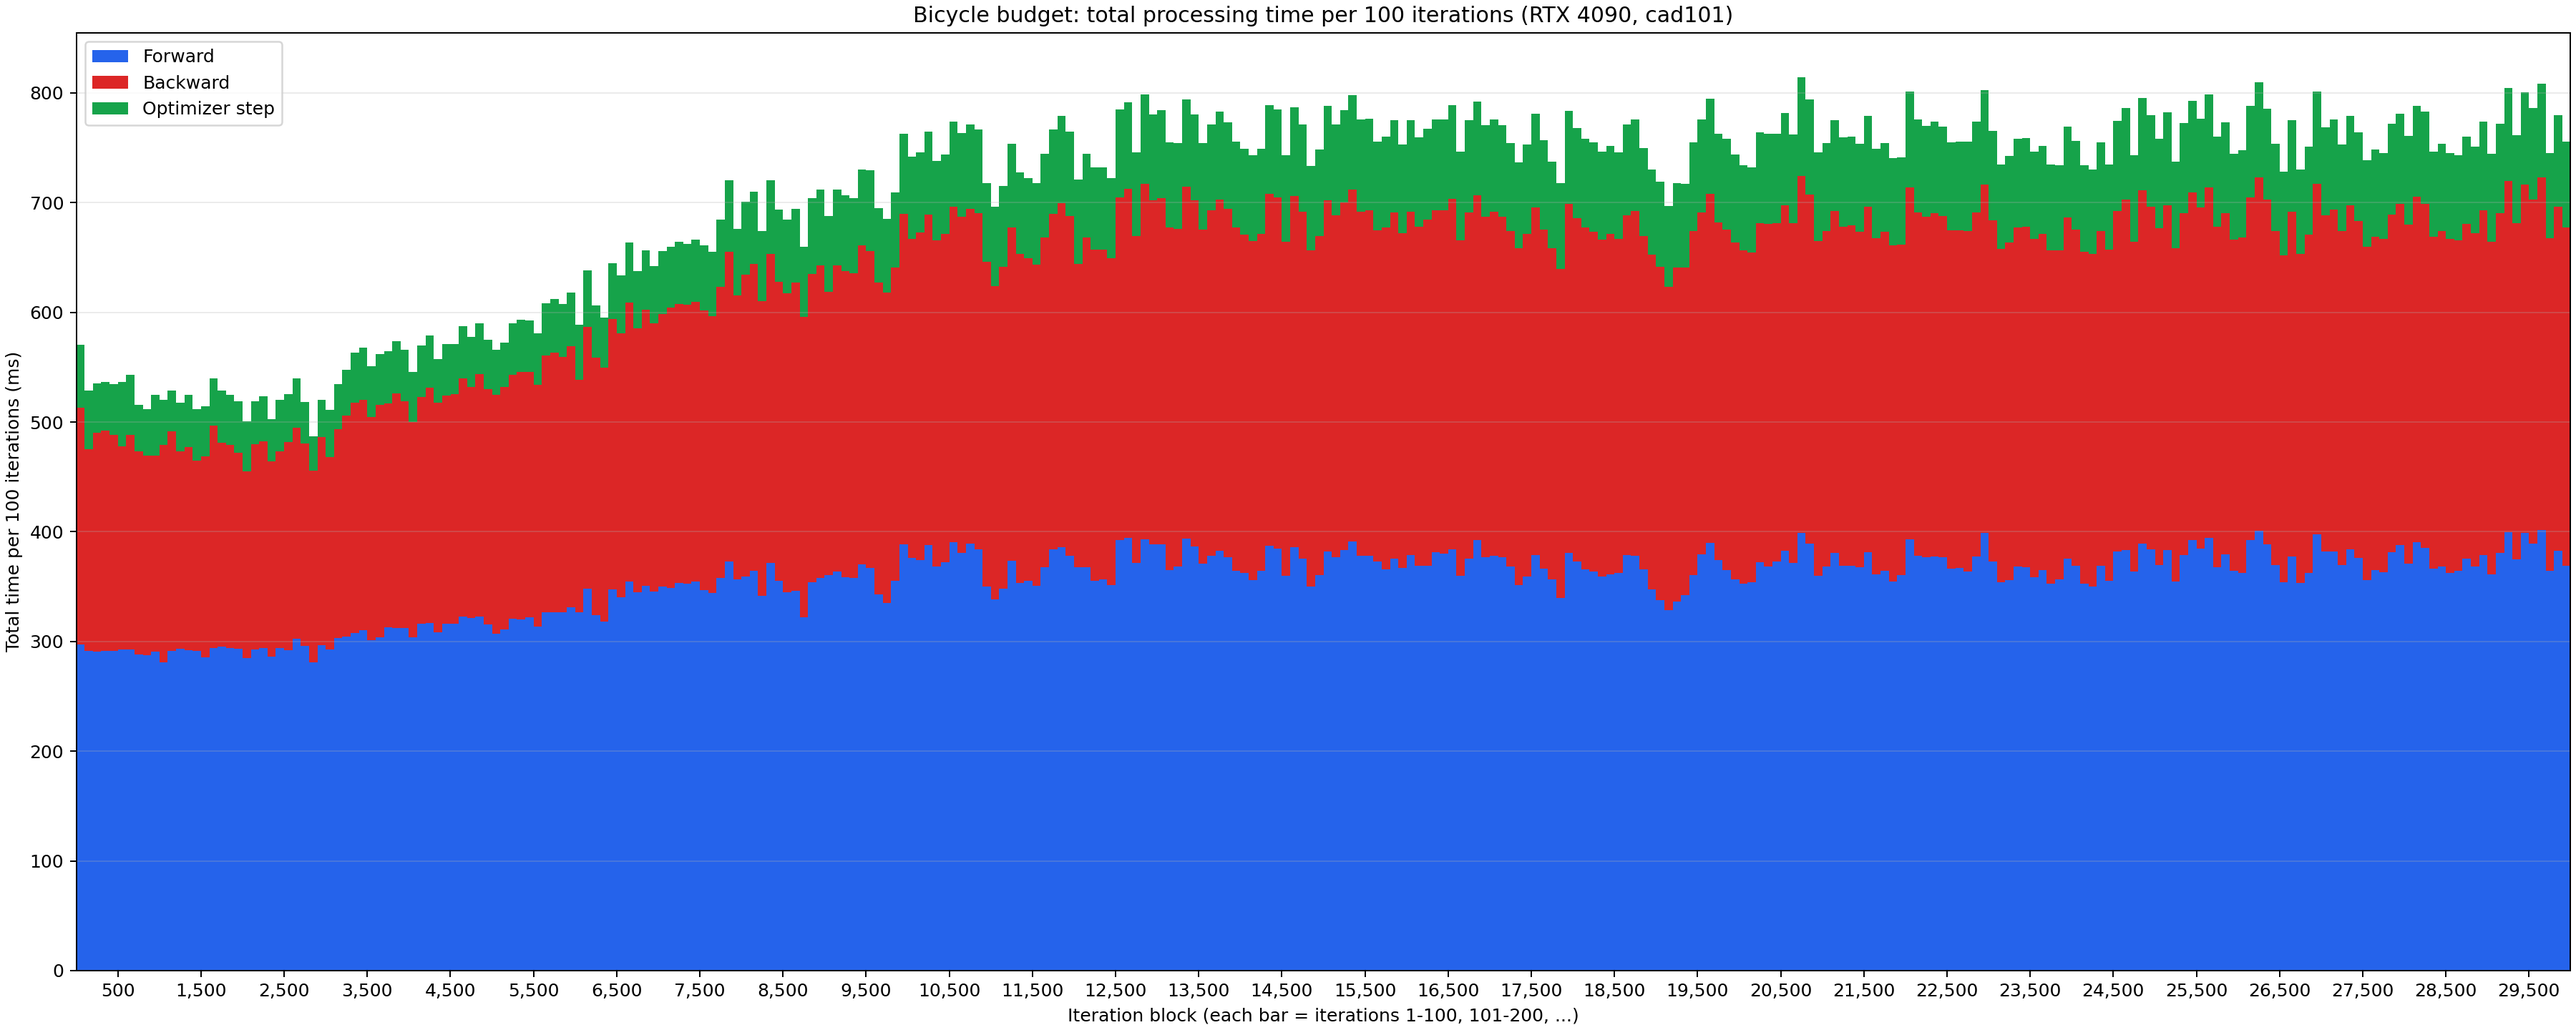
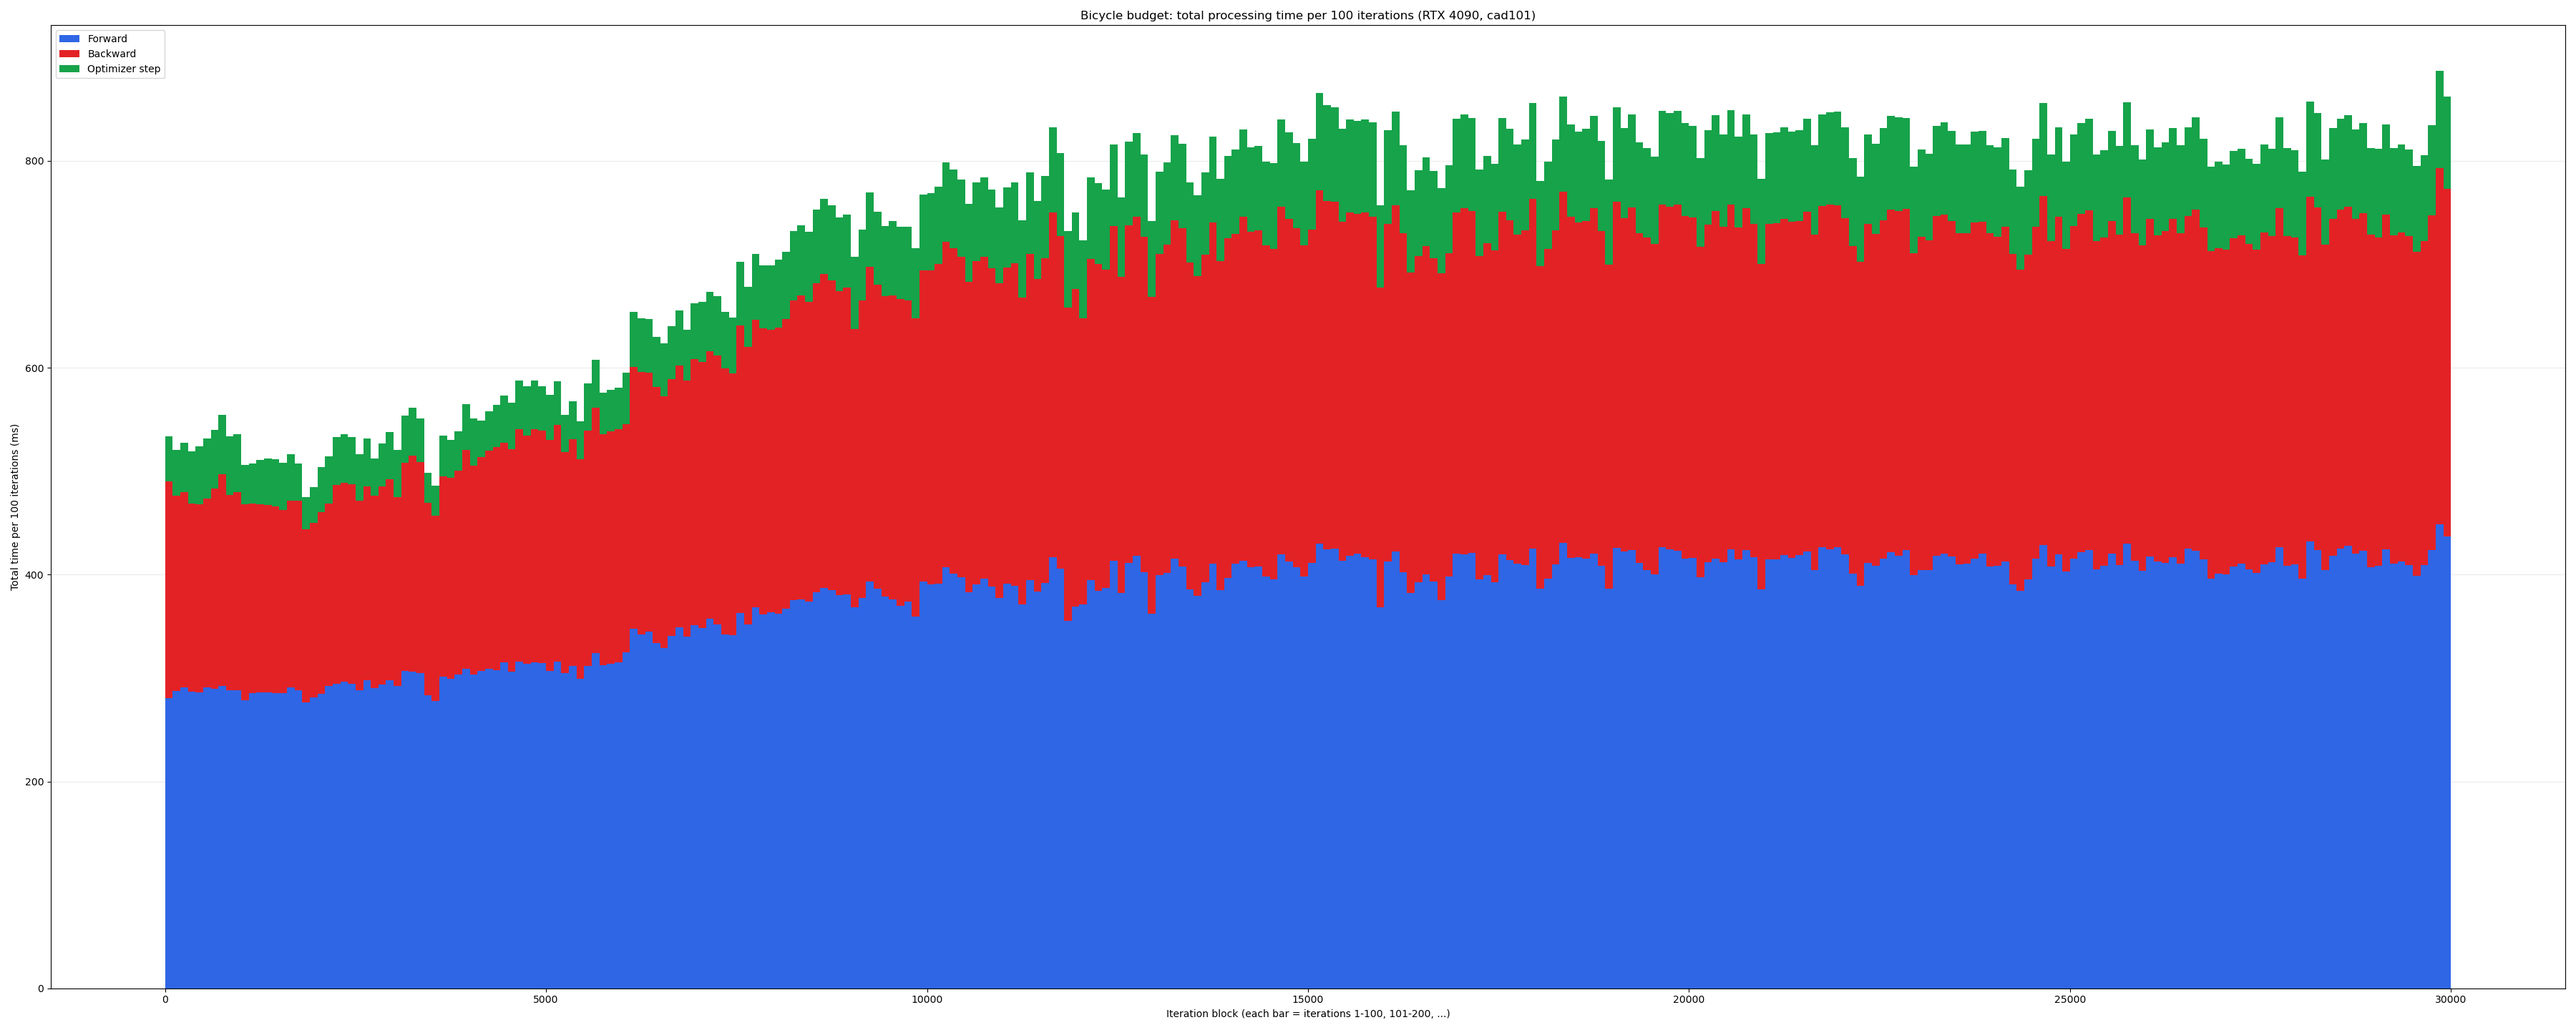
Add timing benchmark chart images

diff --git a/eval/plot_timing_100iter_stacked_bar.py b/eval/plot_timing_100iter_stacked_bar.py
@@ -1,0 +1,101 @@
+#!/usr/bin/env python3
+"""Create 100-iteration stacked timing bars for budget benchmark outputs."""
+
+from pathlib import Path
+
+import matplotlib.pyplot as plt
+import numpy as np
+
+
+HERE = Path(__file__).resolve().parent
+BLOCK_SIZE = 100
+
+CAD_MACHINE = {
+    "bicycle": "cad101",
+    "bonsai": "cad102",
+    "counter": "cad101",
+    "flowers": "cad102",
+    "garden": "cad101",
+    "kitchen": "cad102",
+    "room": "cad101",
+    "stump": "cad102",
+    "treehill": "cad101",
+}
+
+WONDER_MACHINE = {
+    "bicycle": "wonder44",
+    "bonsai": "wonder45",
+    "counter": "wonder44",
+    "flowers": "wonder45",
+    "garden": "wonder44",
+    "kitchen": "wonder45",
+    "room": "wonder44",
+    "stump": "wonder45",
+    "treehill": "wonder44",
+}
+
+
+def plot_benchmark(directory: Path) -> None:
+    forward = np.load(directory / "forward.npy")
+    backward = np.load(directory / "backward.npy")
+    step = np.load(directory / "step.npy")
+
+    if not (len(forward) == len(backward) == len(step)):
+        raise ValueError(f"timing arrays have different lengths in {directory}")
+    if len(forward) % BLOCK_SIZE:
+        raise ValueError(f"timing arrays are not a multiple of {BLOCK_SIZE}: {directory}")
+
+    def block_sums(values: np.ndarray) -> np.ndarray:
+        return values.reshape(-1, BLOCK_SIZE).sum(axis=1)
+
+    forward_blocks = block_sums(forward)
+    backward_blocks = block_sums(backward)
+    step_blocks = block_sums(step)
+    x = np.arange(len(forward_blocks)) * BLOCK_SIZE
+
+    is_jetson = directory.name.endswith("_budget_jetson")
+    scene = directory.name.removesuffix("_budget_jetson" if is_jetson else "_budget")
+    platform = "Jetson" if is_jetson else "RTX 4090"
+    machine = (WONDER_MACHINE if is_jetson else CAD_MACHINE)[scene]
+    title = f"{scene.capitalize()} budget: total processing time per 100 iterations ({platform}, {machine})"
+
+    fig, ax = plt.subplots(figsize=(36, 14.4), dpi=100)
+    ax.bar(x, forward_blocks, width=BLOCK_SIZE, align="edge", color="#2f66e5", label="Forward")
+    ax.bar(
+        x,
+        backward_blocks,
+        width=BLOCK_SIZE,
+        align="edge",
+        bottom=forward_blocks,
+        color="#e32226",
+        label="Backward",
+    )
+    ax.bar(
+        x,
+        step_blocks,
+        width=BLOCK_SIZE,
+        align="edge",
+        bottom=forward_blocks + backward_blocks,
+        color="#16a34a",
+        label="Optimizer step",
+    )
+    ax.set_xlabel("Iteration block (each bar = iterations 1-100, 101-200, ...)")
+    ax.set_ylabel("Total time per 100 iterations (ms)")
+    ax.set_title(title)
+    ax.grid(axis="y", alpha=0.25)
+    ax.set_axisbelow(True)
+    ax.legend(loc="upper left")
+    fig.tight_layout()
+    fig.savefig(directory / "timing_100iter_stacked_bar.png")
+    plt.close(fig)
+
+
+def main() -> None:
+    for directory in sorted(HERE.glob("*_budget*")):
+        if all((directory / name).exists() for name in ("forward.npy", "backward.npy", "step.npy")):
+            plot_benchmark(directory)
+            print(directory / "timing_100iter_stacked_bar.png")
+
+
+if __name__ == "__main__":
+    main()

diff --git a/eval/combine_timing_100iter_stacked_bar.py b/eval/combine_timing_100iter_stacked_bar.py
@@ -1,0 +1,79 @@
+#!/usr/bin/env python3
+"""Combine all budget timing charts into a readable comparison sheet."""
+
+from pathlib import Path
+
+from PIL import Image, ImageDraw, ImageFont
+
+
+HERE = Path(__file__).resolve().parent
+SCENES = [
+    "bicycle",
+    "bonsai",
+    "counter",
+    "flowers",
+    "garden",
+    "kitchen",
+    "room",
+    "stump",
+    "treehill",
+]
+OUTPUT = HERE / "timing_100iter_stacked_bar_all.png"
+
+
+def font(size: int, bold: bool = False):
+    candidates = (
+        "/usr/share/fonts/truetype/dejavu/DejaVuSans-Bold.ttf"
+        if bold
+        else "/usr/share/fonts/truetype/dejavu/DejaVuSans.ttf",
+    )
+    for path in candidates:
+        if Path(path).exists():
+            return ImageFont.truetype(path, size)
+    return ImageFont.load_default()
+
+
+def main() -> None:
+    source_size = (3600, 1440)
+    tile_size = (1760, 704)
+    gap = 24
+    label_width = 220
+    header_height = 120
+    width = label_width + gap + tile_size[0] * 2 + gap
+    height = header_height + len(SCENES) * tile_size[1] + (len(SCENES) - 1) * gap
+
+    sheet = Image.new("RGB", (width, height), "#f3f4f6")
+    draw = ImageDraw.Draw(sheet)
+    title_font = font(42, bold=True)
+    column_font = font(32, bold=True)
+
+    title = "Timing per 100 iterations — all budget benchmarks"
+    title_box = draw.textbbox((0, 0), title, font=title_font)
+    draw.text(((width - (title_box[2] - title_box[0])) / 2, 20), title, fill="#111827", font=title_font)
+    chart_x = label_width + gap
+    draw.text((chart_x + tile_size[0] / 2 - 90, 76), "RTX 4090", fill="#374151", font=column_font)
+    draw.text((chart_x + tile_size[0] + gap + tile_size[0] / 2 - 55, 76), "Jetson", fill="#374151", font=column_font)
+    scene_font = font(34, bold=True)
+
+    for row, scene in enumerate(SCENES):
+        y = header_height + row * (tile_size[1] + gap)
+        label = scene.capitalize()
+        label_box = draw.textbbox((0, 0), label, font=scene_font)
+        label_x = (label_width - (label_box[2] - label_box[0])) / 2
+        label_y = y + (tile_size[1] - (label_box[3] - label_box[1])) / 2
+        draw.text((label_x, label_y), label, fill="#111827", font=scene_font)
+        for col, suffix in enumerate(("_budget", "_budget_jetson")):
+            source = HERE / f"{scene}{suffix}" / "timing_100iter_stacked_bar.png"
+            if not source.exists():
+                raise FileNotFoundError(source)
+            with Image.open(source) as image:
+                image = image.convert("RGB").resize(tile_size, Image.Resampling.LANCZOS)
+                x = chart_x + col * (tile_size[0] + gap)
+                sheet.paste(image, (x, y))
+
+    sheet.save(OUTPUT, optimize=True)
+    print(OUTPUT)
+
+
+if __name__ == "__main__":
+    main()
